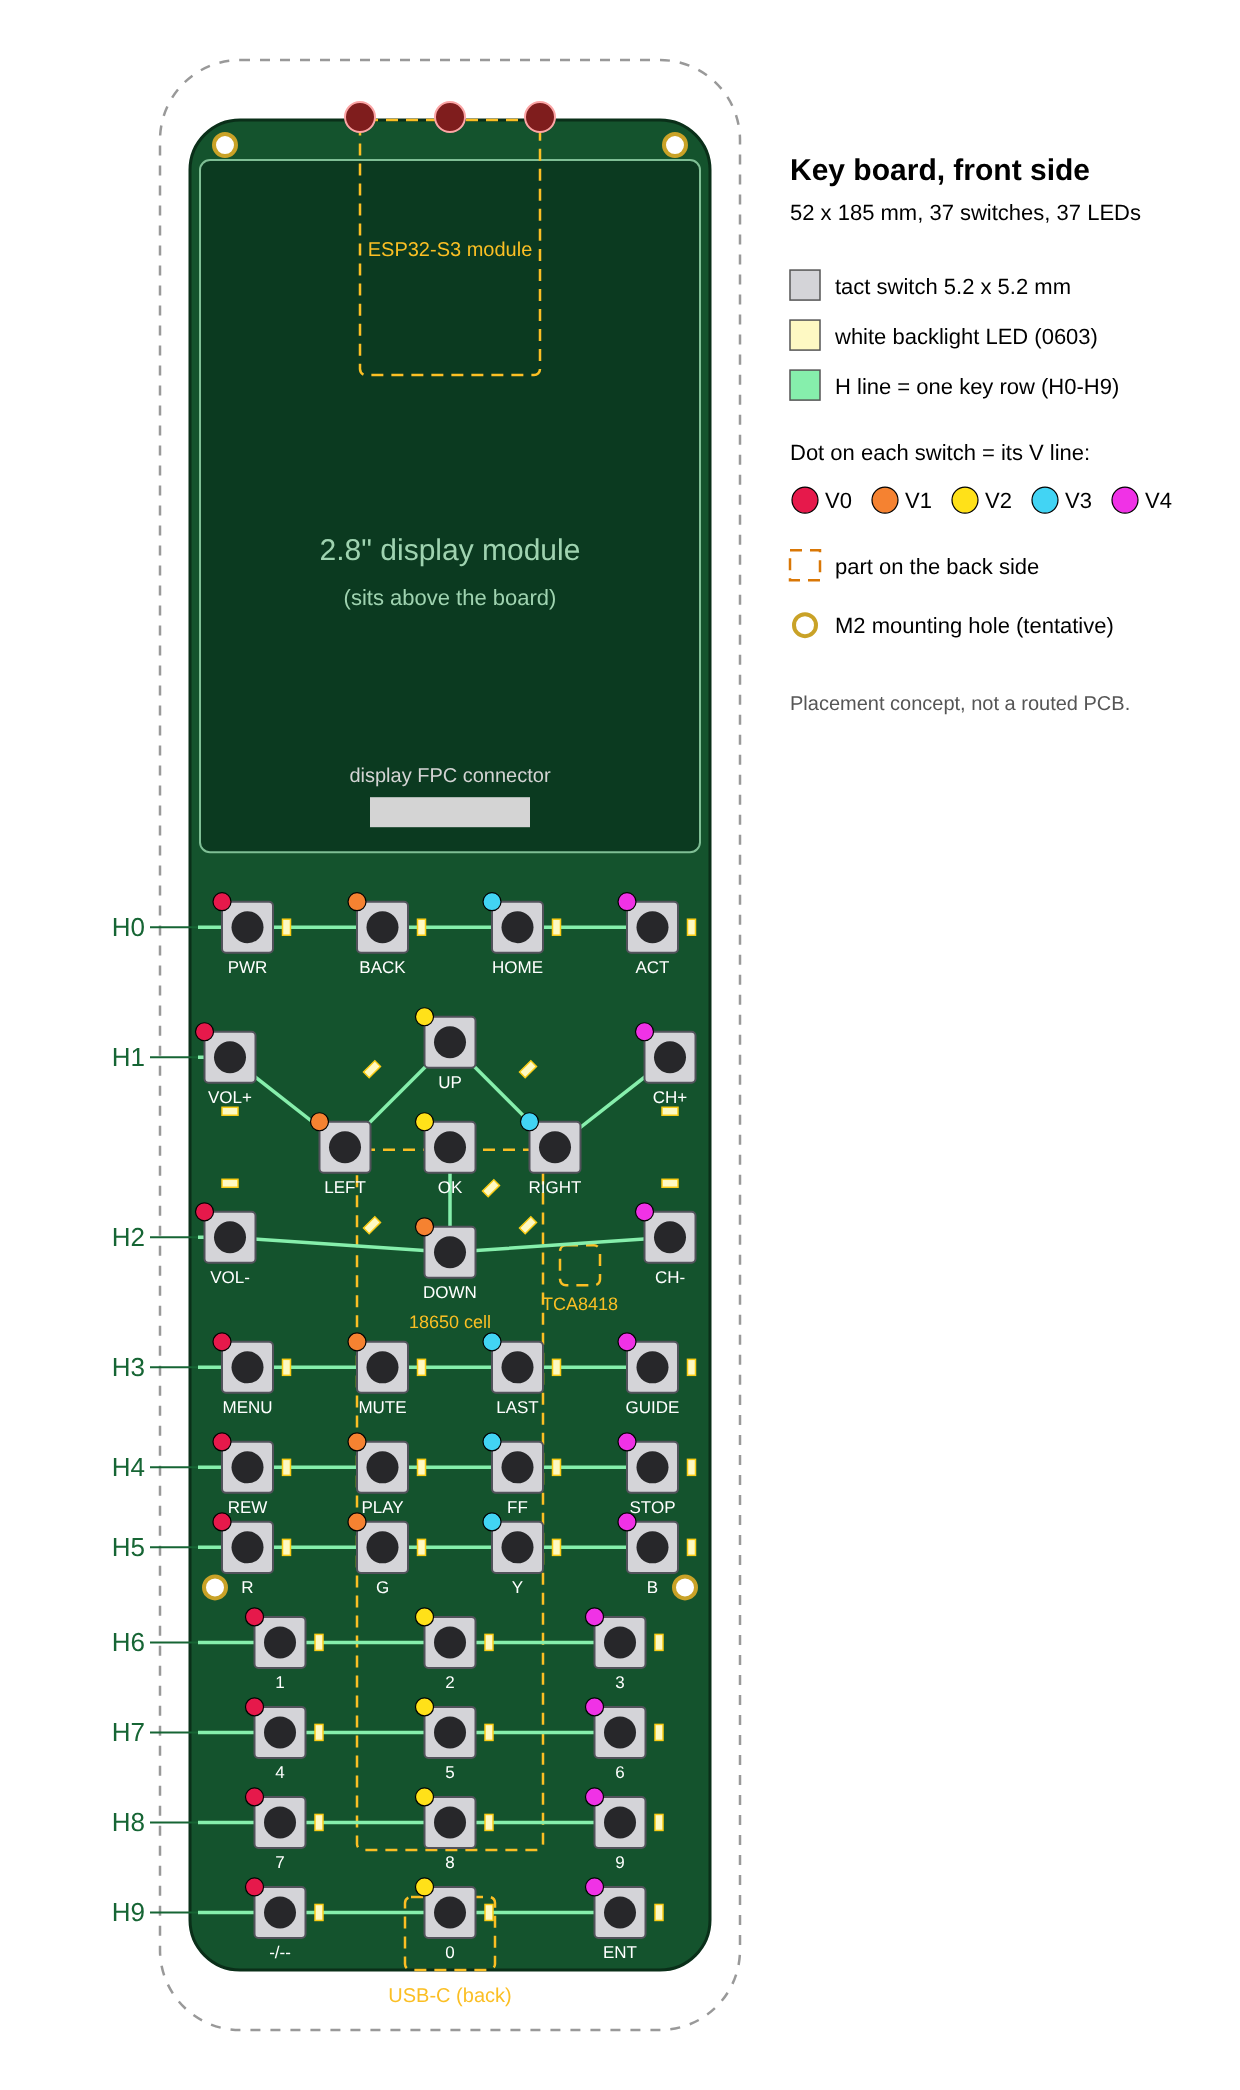
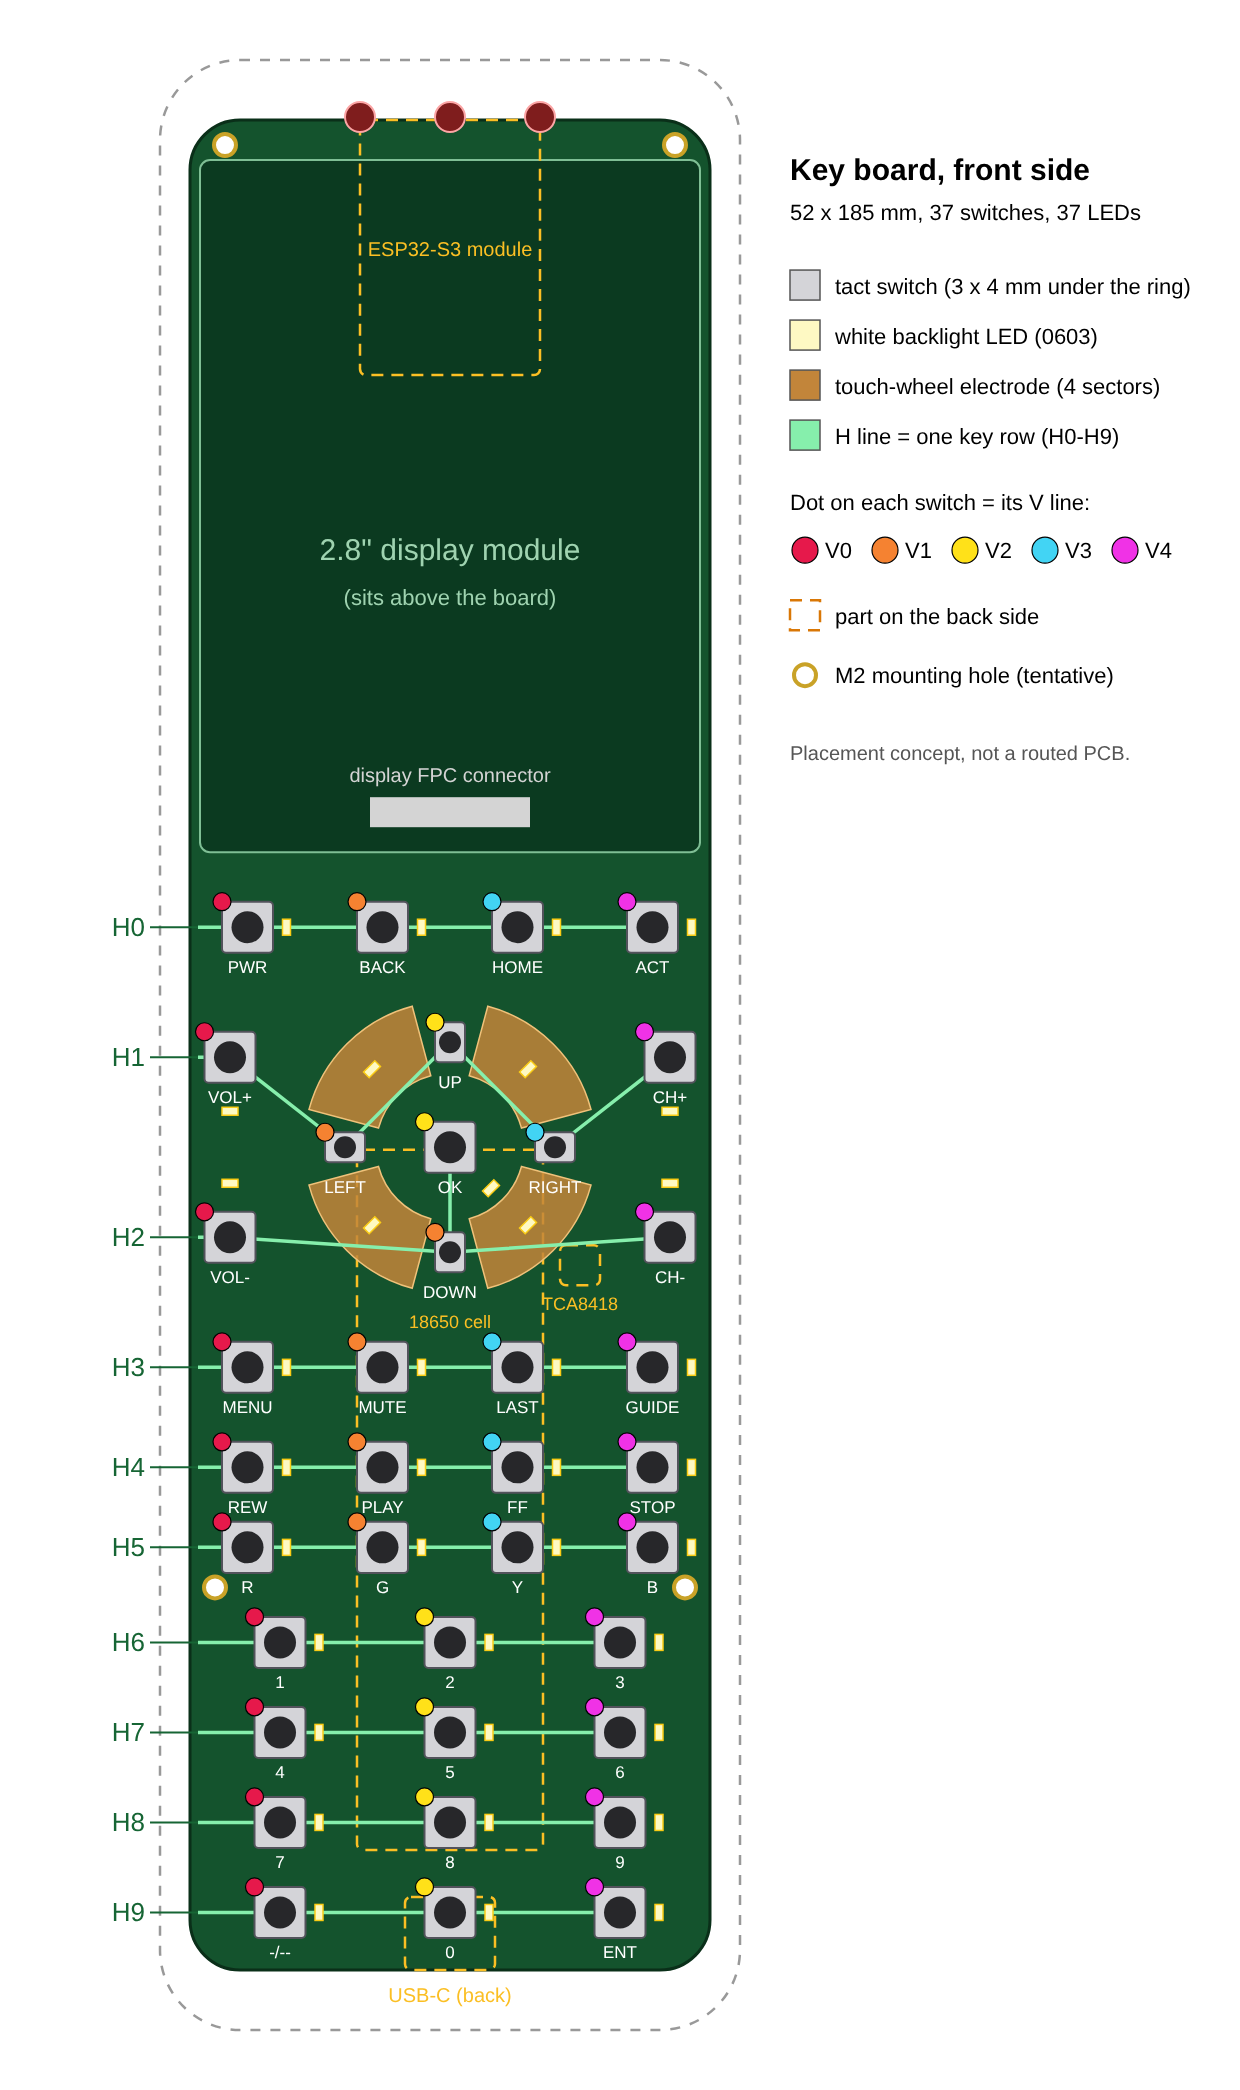
Propose a capacitive wheel on the D-pad ring
Four sector electrodes under the ring read by ESP32-S3 touch pins,
cardinal clicks kept on smaller switches, haptic ticks from an LRA.
Marked as to be prototyped, with a plain D-pad fallback.

Claude-Session: https://claude.ai/code/session_01UvzycbU5K8hUfHgpBw5UGQ

Changed region(s): [[0.6129, 0.1244, 0.9194, 0.3421], [0.2452, 0.4665, 0.4903, 0.622]]

diff --git a/mockups/gen_keyboard.py b/mockups/gen_keyboard.py
@@ -92,6 +92,15 @@ for x, y in ((6.5, 8.5), (W - 6.5, 8.5), (5.5, 152.7), (W - 5.5, 152.7)):
 for i in (-1, 0, 1):
     o.append(f'<rect x="{W/2+i*9-1.5}" y="4.2" width="3" height="3" rx="1.5" fill="#7f1d1d" stroke="#fca5a5" stroke-width="0.2"/>')
 
+# capacitive wheel: four sector electrodes under the d-pad ring, between the cardinal switches
+import math
+R_IN, R_OUT, HALF = 7.4, 14.6, 30.0
+for q in range(4):
+    a0, a1 = math.radians(45 + 90 * q - HALF), math.radians(45 + 90 * q + HALF)
+    P = lambda r, a: f"{dp['cx'] + r * math.cos(a):.2f},{dp['cy'] + r * math.sin(a):.2f}"
+    o.append(f'<path d="M{P(R_IN, a0)} L{P(R_OUT, a0)} A{R_OUT},{R_OUT} 0 0 1 {P(R_OUT, a1)} '
+             f'L{P(R_IN, a1)} A{R_IN},{R_IN} 0 0 0 {P(R_IN, a0)} Z" fill="#c2853a" fill-opacity="0.85" '
+             f'stroke="#f0c27a" stroke-width="0.15"/>')
 # H nets
 for i, h in enumerate(H):
     pts = " ".join(f"{x},{y}" for n, x, y, _ in h if n != "OK")
@@ -108,28 +117,34 @@ for x, y, rot in leds:
 # switches
 for h in H:
     for name, x, y, v in h:
-        o.append(f'<rect x="{x-SW/2}" y="{y-SW/2}" width="{SW}" height="{SW}" rx="0.4" fill="#d4d4d8" stroke="#52525b" stroke-width="0.2"/>')
-        o.append(f'<circle cx="{x}" cy="{y}" r="1.6" fill="#27272a"/>')
-        o.append(f'<circle cx="{x-SW/2}" cy="{y-SW/2}" r="0.9" fill="{VCOL[v]}" stroke="#000" stroke-width="0.12"/>')
+        sw, sh = SW, SW
+        if name in ("UP", "DOWN"):
+            sw, sh = 3.0, 4.0          # small 3 x 4 mm switches, long side radial, to leave room for the wheel
+        elif name in ("LEFT", "RIGHT"):
+            sw, sh = 4.0, 3.0
+        o.append(f'<rect x="{x-sw/2}" y="{y-sh/2}" width="{sw}" height="{sh}" rx="0.4" fill="#d4d4d8" stroke="#52525b" stroke-width="0.2"/>')
+        o.append(f'<circle cx="{x}" cy="{y}" r="{1.6 if sw == SW else 1.1}" fill="#27272a"/>')
+        o.append(f'<circle cx="{x-sw/2}" cy="{y-sh/2}" r="0.9" fill="{VCOL[v]}" stroke="#000" stroke-width="0.12"/>')
         o.append(f'<text x="{x}" y="{y+SW/2+2}" font-size="1.7" fill="#fff" text-anchor="middle">{name}</text>')
 # legend
 lx, ly = W + 5, 12
 o.append(f'<text x="{lx}" y="{ly}" font-size="3" font-weight="bold">Key board, front side</text>')
 o.append(f'<text x="{lx}" y="{ly+4}" font-size="2.2">{W-2*EDGE:.0f} x {L-12:.0f} mm, 37 switches, {len(leds)} LEDs</text>')
-items = [("#d4d4d8", "tact switch 5.2 x 5.2 mm"), ("#fef9c3", "white backlight LED (0603)"),
+items = [("#d4d4d8", "tact switch (3 x 4 mm under the ring)"), ("#fef9c3", "white backlight LED (0603)"),
+         ("#c2853a", "touch-wheel electrode (4 sectors)"),
          ("#86efac", "H line = one key row (H0-H9)")]
 for i, (c, t) in enumerate(items):
     o.append(f'<rect x="{lx}" y="{ly+9+i*5}" width="3" height="3" fill="{c}" stroke="#555" stroke-width="0.15"/>')
     o.append(f'<text x="{lx+4.5}" y="{ly+11.4+i*5}" font-size="2.2">{t}</text>')
-o.append(f'<text x="{lx}" y="{ly+28}" font-size="2.2">Dot on each switch = its V line:</text>')
+o.append(f'<text x="{lx}" y="{ly+33}" font-size="2.2">Dot on each switch = its V line:</text>')
 for i, c in enumerate(VCOL):
-    o.append(f'<circle cx="{lx+1.5+i*8}" cy="{ly+32}" r="1.3" fill="{c}" stroke="#000" stroke-width="0.12"/>')
-    o.append(f'<text x="{lx+3.5+i*8}" y="{ly+32.8}" font-size="2.2">V{i}</text>')
-o.append(f'<rect x="{lx}" y="{ly+37}" width="3" height="3" fill="none" stroke="#d97706" stroke-width="0.25" stroke-dasharray="1.2 0.8"/>')
-o.append(f'<text x="{lx+4.5}" y="{ly+39.4}" font-size="2.2">part on the back side</text>')
-o.append(f'<circle cx="{lx+1.5}" cy="{ly+44.5}" r="1.1" fill="#fff" stroke="#c9a227" stroke-width="0.4"/>')
-o.append(f'<text x="{lx+4.5}" y="{ly+45.3}" font-size="2.2">M2 mounting hole (tentative)</text>')
-o.append(f'<text x="{lx}" y="{ly+53}" font-size="2" fill="#555">Placement concept, not a routed PCB.</text>')
+    o.append(f'<circle cx="{lx+1.5+i*8}" cy="{ly+37}" r="1.3" fill="{c}" stroke="#000" stroke-width="0.12"/>')
+    o.append(f'<text x="{lx+3.5+i*8}" y="{ly+37.8}" font-size="2.2">V{i}</text>')
+o.append(f'<rect x="{lx}" y="{ly+42}" width="3" height="3" fill="none" stroke="#d97706" stroke-width="0.25" stroke-dasharray="1.2 0.8"/>')
+o.append(f'<text x="{lx+4.5}" y="{ly+44.4}" font-size="2.2">part on the back side</text>')
+o.append(f'<circle cx="{lx+1.5}" cy="{ly+49.5}" r="1.1" fill="#fff" stroke="#c9a227" stroke-width="0.4"/>')
+o.append(f'<text x="{lx+4.5}" y="{ly+50.3}" font-size="2.2">M2 mounting hole (tentative)</text>')
+o.append(f'<text x="{lx}" y="{ly+58}" font-size="2" fill="#555">Placement concept, not a routed PCB.</text>')
 o.append("</svg>")
 OUT.write_text("\n".join(o))
 

diff --git a/docs/DESIGN.md b/docs/DESIGN.md
@@ -134,6 +134,7 @@ PCB** — no schematic or copper exists yet; that is milestone M2.
 - The D-pad ring presses 4 switches (Up/Down/Left/Right) around the OK switch; each rocker presses 2.
 - No per-key diodes: a remote never needs three keys at once, and the TCA8418 handles two-key presses.
 - **37 backlight LEDs**: one beside each plain key, four on the D-pad diagonals, one under OK, two per rocker.
+- **Touch wheel**: four copper sectors under the D-pad ring (§5.3.2); the D-pad switches are the small 3 × 4 mm type.
 - Back side (dashed): ESP32-S3 at the nose, 18650 along the spine, TCA8418 beside the cell, USB-C at the tail.
   The cell sits 18 mm from the tail so the USB-C receptacle fits behind it.
 
@@ -154,6 +155,27 @@ Open points this drawing exposes: the colour-key switches are taller than the vi
 cap flange hides them, but a smaller switch may be cleaner); mounting-hole positions are tentative until the
 shell is drawn; the pogo pads need a home on the back near the tail, clear of the cell.
 
+### 5.3.2 Capacitive wheel on the D-pad ring (proposed, to be prototyped)
+
+The D-pad ring doubles as a touch wheel, iPod-style: slide a finger around it to scroll a list, change
+volume or dim a light; press it at a cardinal point for a real click.
+
+- **Sensing:** four copper sector electrodes on the PCB under the ring, between the cardinal switches, read
+  by four ESP32-S3 touch pins (no extra chip). Finger angle is interpolated from the ratio of neighbouring
+  sectors. Only sampled while awake; the wheel is not a wake source.
+- **Clicks:** unchanged — the ring still rocks onto four tact switches, OK stays a separate centre key.
+  The four switches shrink to 3 × 4 mm, long side radial, so the electrodes cover ≈ 60° of each quadrant.
+- **Feedback while scrolling:** a haptic "tick" every step (e.g. every 15–20°). A crisp tick needs a small
+  **LRA with a haptic driver (DRV2605L class)** instead of the plain coin motor — upgraded in §5.5.
+- **Ring cap:** solid plastic down to ≈ 0.3 mm above the PCB (plastic couples far better than an air gap),
+  with pockets for the switches and LEDs. Translucent body, so the ring backlight still works.
+- **Firmware rules:** a resting thumb must not scroll — motion starts only after ≈ 25° of travel; a click
+  cancels any scroll in progress; scrolling is off unless the current page or activity uses it.
+- **Risk and fallback:** sensing through ≈ 3 mm of printed plastic on a moving cap is the uncertain part.
+  The electrodes are free on the PCB, so if it underperforms the firmware ignores them and the D-pad works as
+  a plain D-pad. Plan B is a thin flex/PCB electrode ring glued under the cap face (much stronger signal,
+  needs a flex tail). Validate on the M1 key-cluster prototype before the main PCB.
+
 ### 5.4 Infrared
 - **Transmit:** 3 × 940 nm emitters — one narrow straight ahead, two wide splayed ≈ 30° — MOSFET-switched from
   the battery rail with a bulk capacitor, modulated by the RMT peripheral, ≈ 300–500 mA peak per LED.
@@ -163,7 +185,7 @@ shell is drawn; the pogo pads need a home on the back near the tail, clear of th
 ### 5.5 Sensors and feedback
 - **Accelerometer:** LIS2DH12 (or BMA400), low-power motion-threshold interrupt, a few µA. Also "face-down = sleep".
 - **Grip electrode:** copper pour along the PCB edges / foil in the back shell on an ESP32-S3 touch pin.
-- **Haptic:** small coin vibration motor for touchscreen feedback and "find me".
+- **Haptic:** small LRA + DRV2605L-class driver (I²C) for wheel ticks, touchscreen feedback and "find me".
 
 ### 5.6 Power
 - **Cell:** one **18650**, 3000–3500 mAh, held in PCB leaf-spring contacts inside a printed cradle in the back
@@ -353,6 +375,7 @@ Lovelace in the hand is the priority, an old phone in a printed shell does that 
 | Shield TV or Chromecast does not wake from standby over BLE HID, or reconnects slowly | Test on both boxes in M0; fallbacks: HA Android TV Remote integration, HDMI-CEC wake via the TV's IR power |
 | Switching between two bonded boxes is slow or confuses pairing | One bond per box, connect only to the active activity's box; test in M0 |
 | False wakes on a sofa drain the battery | Grip filter, tunable motion threshold, short timeout |
+| Touch wheel too weak through the printed ring, or scrolls by accident | Prototype in M1; movement threshold; fallback to plain D-pad or flex electrode ring (§5.3.2) |
 | Printed keys feel cheap, rattle, or leak light | Prototype one key cluster with LEDs before the PCB; TPU keymat as plan B |
 | Backlit legends unreadable (too thin for a 0.4 mm nozzle) | Legend stroke ≥ 0.5 mm, large glyphs; try a 0.2 mm nozzle for keycaps |
 | Display variant mismatch | Freeze one exact part number before CAD |
@@ -365,7 +388,7 @@ Lovelace in the hand is the priority, an old phone in a printed shell does that 
 - **M0 — Bench proof (dev kit):** ESP32-S3 + display + accelerometer + IR LED. Measure sleep currents and
   wake-to-HA time; pair as BLE HID with the Android TV; LG volume/power over IR; one light toggled through HA.
 - **M1 — Mock-ups:** print the dummies, settle size, key set and pitch. Then one real key cluster with
-  switches, LEDs and translucent caps to validate feel and backlight.
+  switches, LEDs, translucent caps and the touch-wheel electrodes to validate feel, backlight and wheel sensing.
 - **M2 — PCB rev A.**
 - **M3 — Firmware v0:** "Watch TV" activity end-to-end, IR learn, mirrored HA page, sleep/wake state machine.
 - **M4 — Cradle + docked mode.**
